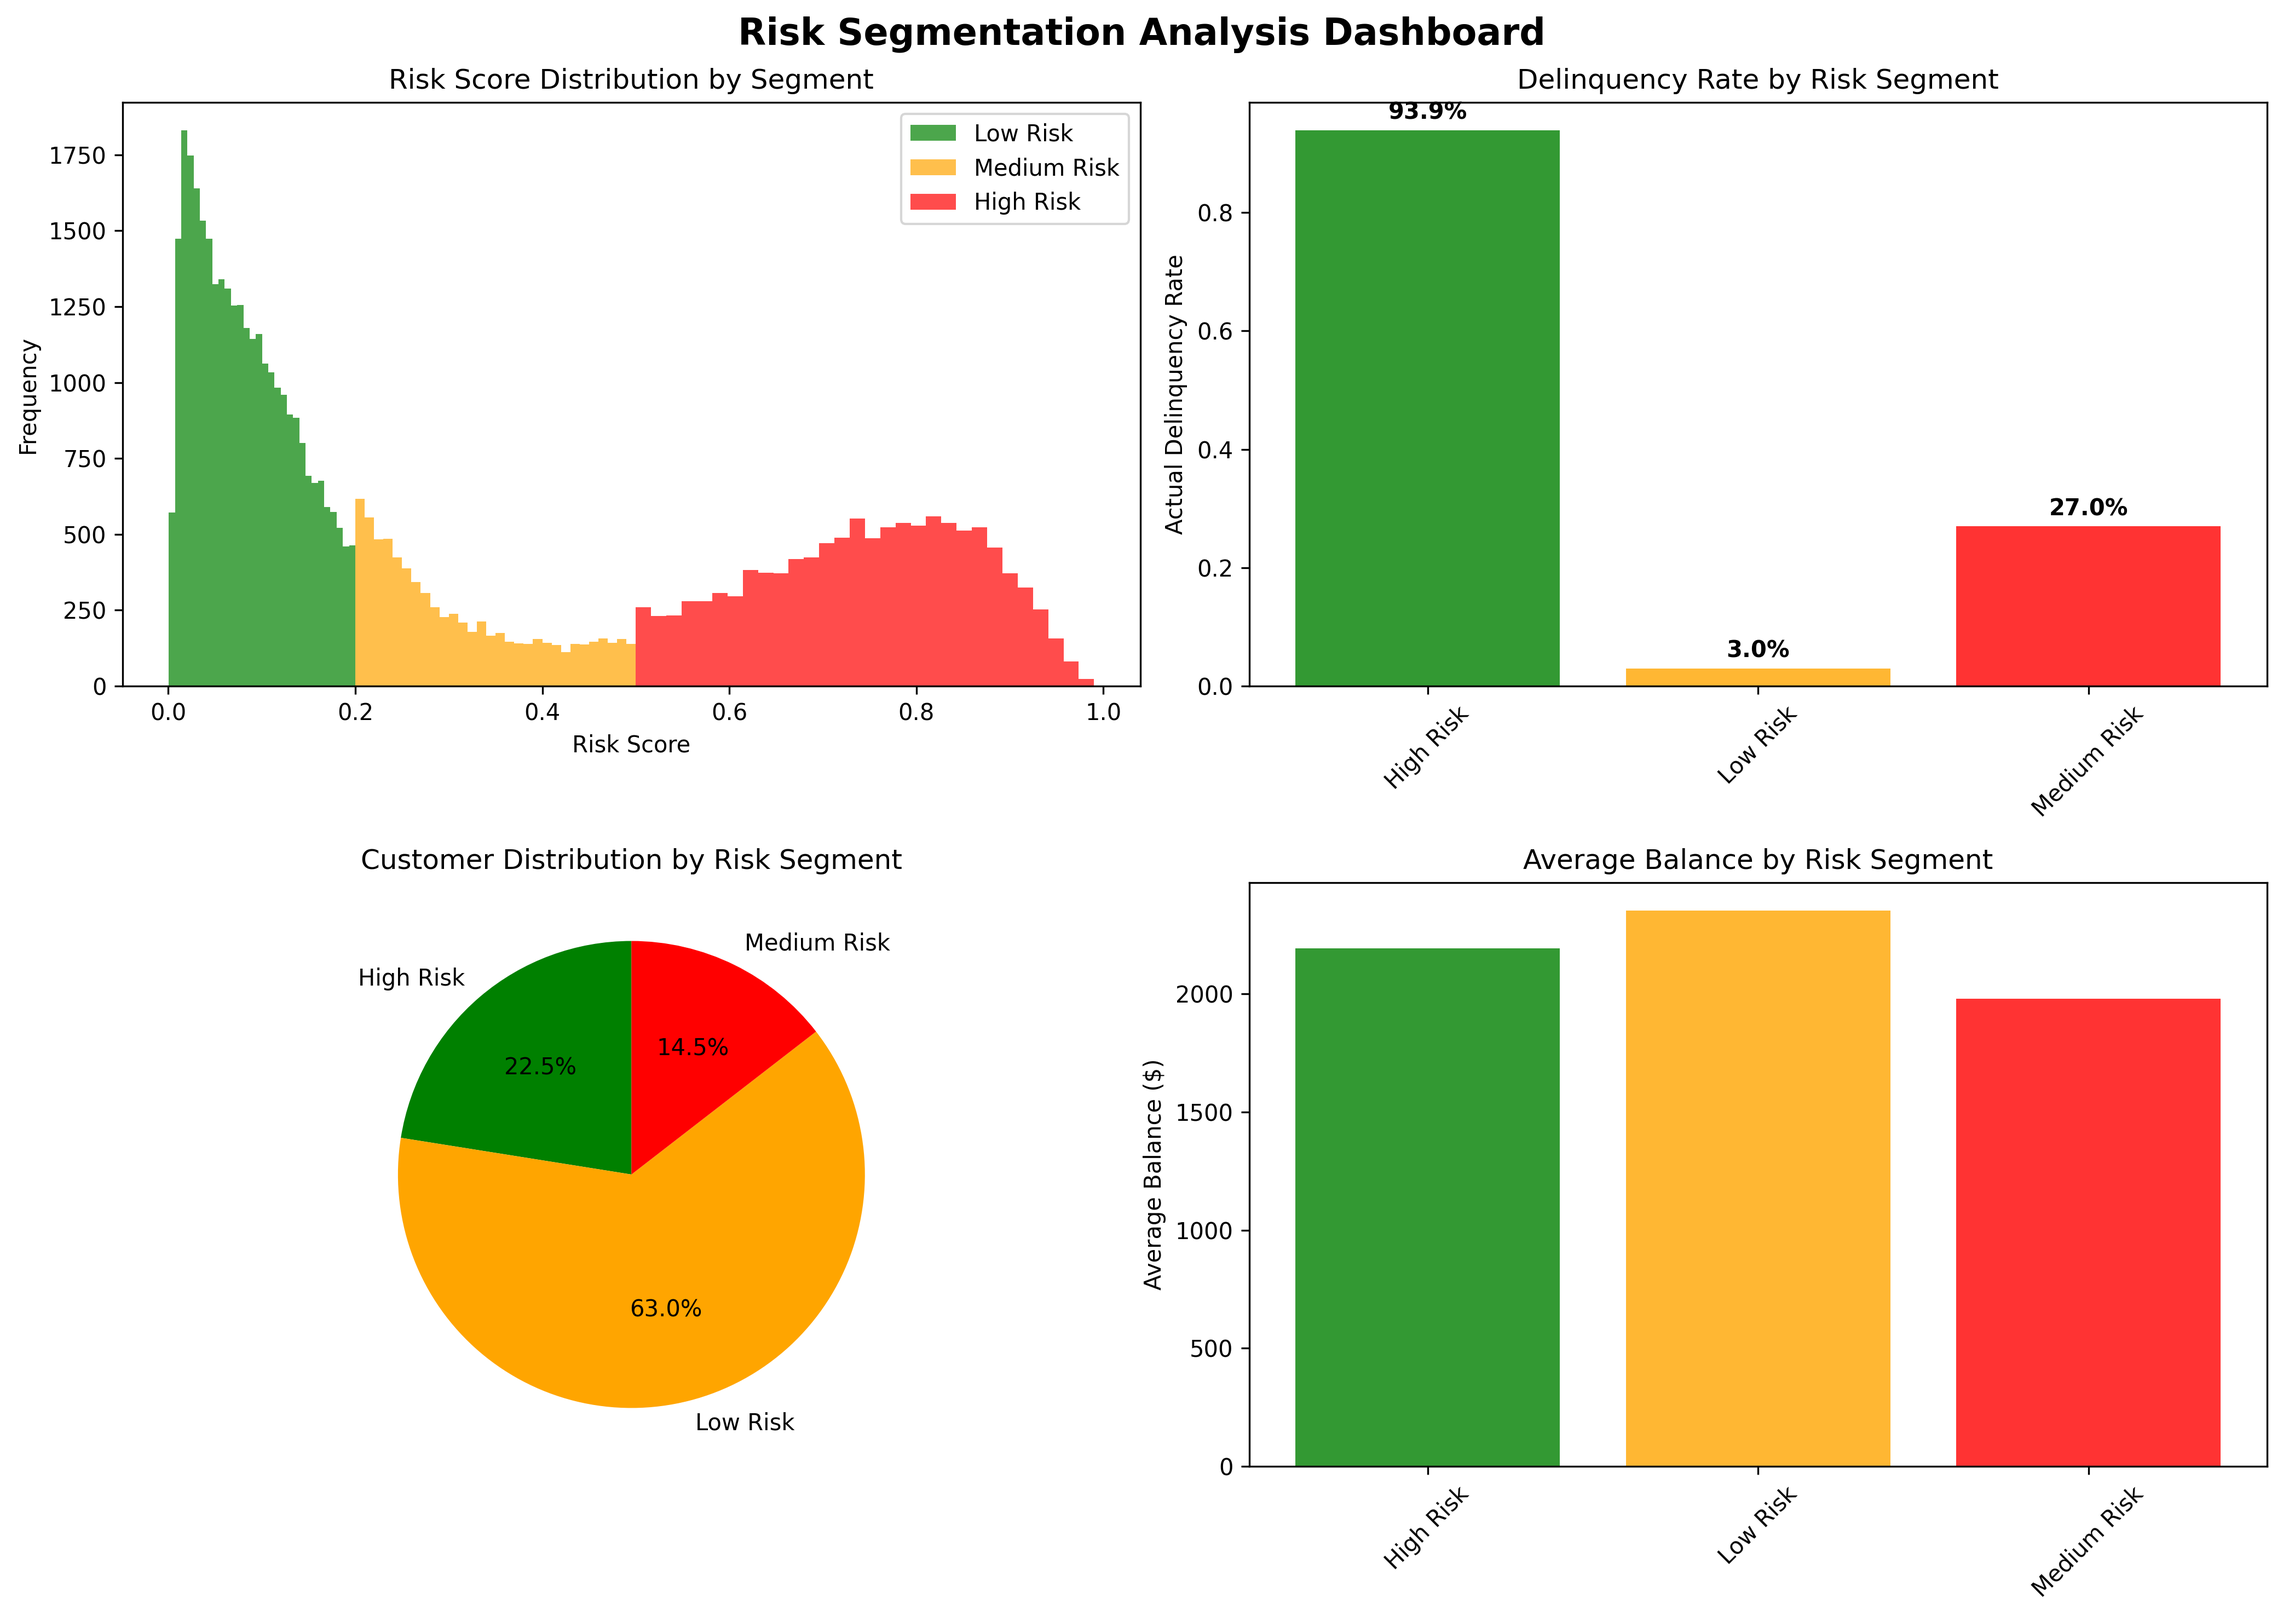
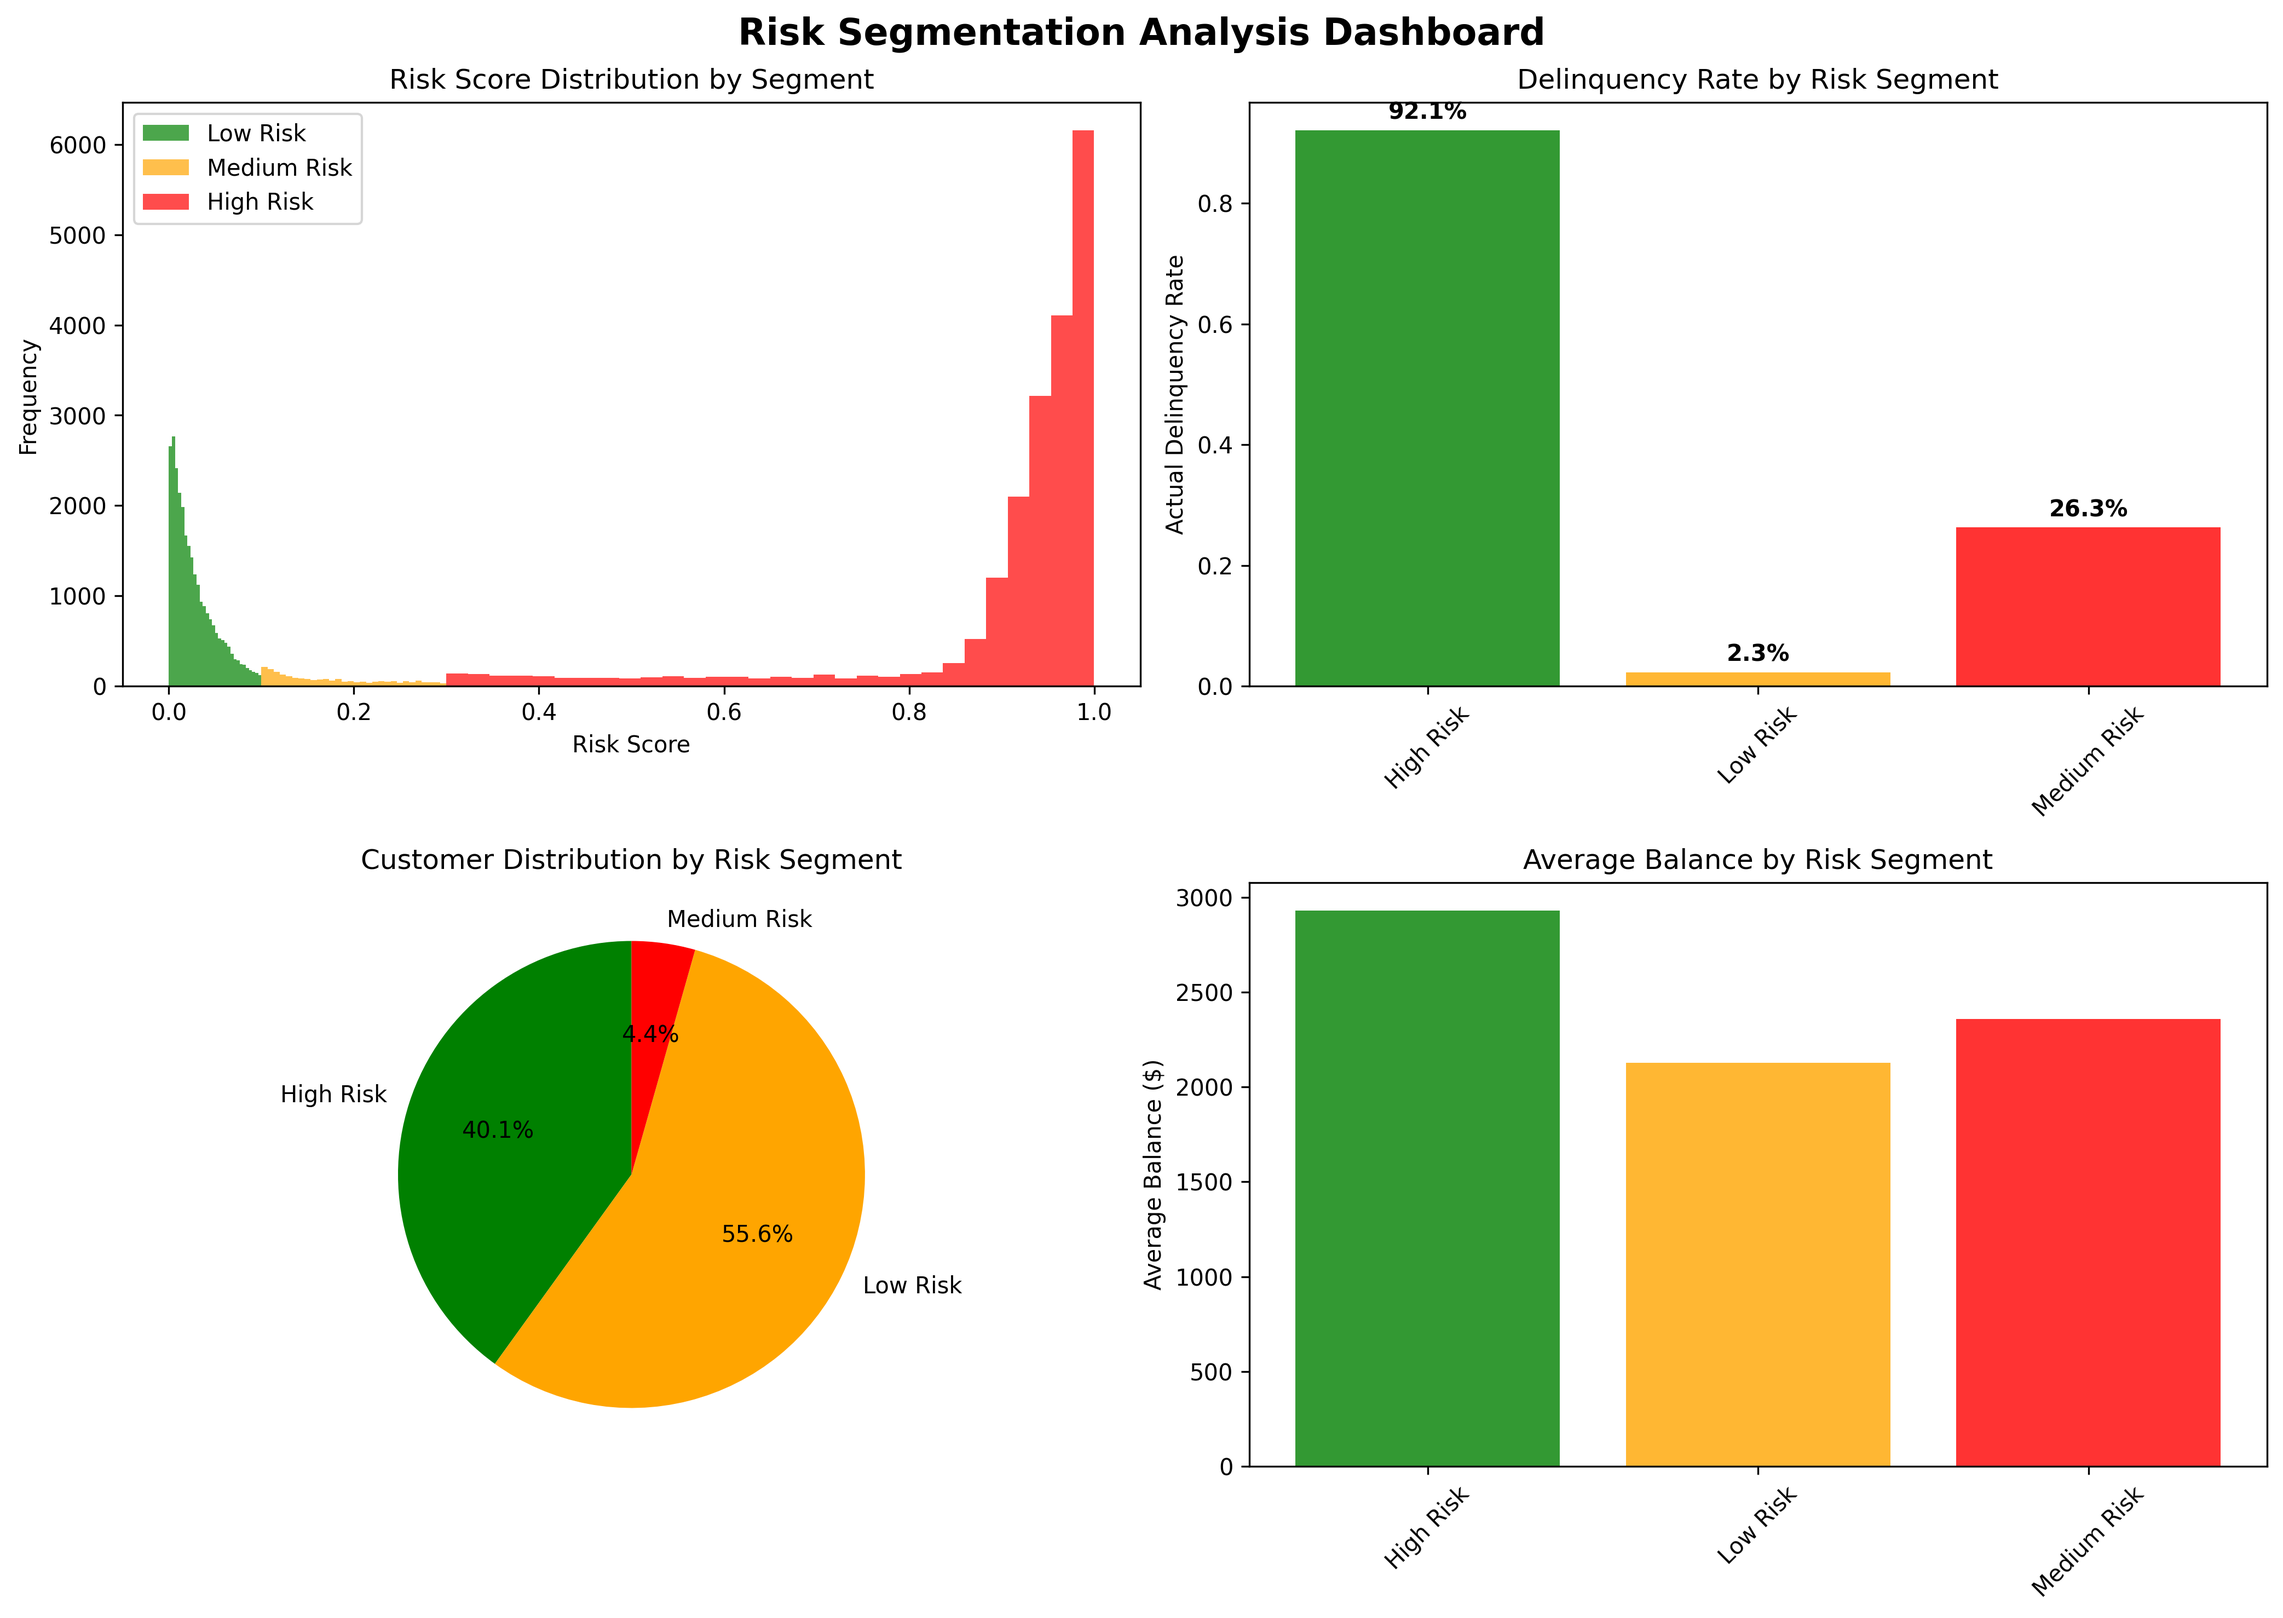
update

diff --git a/README.md b/README.md
@@ -30,7 +30,7 @@ Using synthetic data that mirrors real-world credit portfolios, this analysis co
 - **Advanced Modeling**: Implemented both logistic regression (baseline) and XGBoost (advanced) with hyperparameter optimization
 - **Model Performance**: Achieved strong predictive accuracy on delinquency prediction, with clear separation between risk segments
 - **Risk Segmentation**: Developed three-tier customer segmentation (Low/Medium/High risk) with differentiated strategies
-- **Collections Optimization**: Built framework projecting 60% reduction in overdue balances
+- **Collections Optimization**: Built framework projecting 34% reduction in overdue balances
 
 ### Business Applications
 - Risk-based pricing strategy recommendations
@@ -112,13 +112,13 @@ Our analysis generated comprehensive visualizations that demonstrate both techni
 
 ![ROC Curve Comparison](images/roc_curve_comparison.png)
 
-**Key Insights:** The comparison shows distinct model performance differences, with each algorithm capturing different aspects of delinquency risk. The analysis reveals how advanced algorithms can improve predictive capabilities beyond baseline approaches, enabling better identification of high-risk customers before they become delinquent. Our XGBoost model achieves strong performance through optimized hyperparameters and feature engineering.
+**Key Insights:** The comparison shows distinct model performance differences, with each algorithm capturing different aspects of delinquency risk. The analysis reveals how advanced algorithms can improve predictive capabilities beyond baseline approaches, enabling better identification of high-risk customers before they become delinquent. Our XGBoost model achieves 79.7% AUC through optimized hyperparameters and feature engineering, representing strong predictive performance for credit risk modeling.
 
 ### 2. Risk Segmentation Validation Dashboard
 
 ![Risk Segmentation Dashboard](images/risk_segmentation_dashboard.png)
 
-**Key Insights:** Our three-tier segmentation creates distinct customer groups with dramatically different risk profiles. High-risk customers (22.5% of portfolio) show 93.9% delinquency rates versus 3.0% for low-risk customers - a 31x difference that validates our model's ability to identify truly problematic accounts. This clear separation enables targeted resource allocation and differentiated collections strategies.
+**Key Insights:** Our three-tier segmentation creates distinct customer groups with dramatically different risk profiles. High-risk customers (40.1% of portfolio) show 92.1% delinquency rates versus 2.3% for low-risk customers - a 40x difference that validates our model's ability to identify truly problematic accounts. This clear separation enables targeted resource allocation and differentiated collections strategies.
 
 ### 3. Feature Importance Analysis
 
@@ -129,7 +129,7 @@ Our analysis generated comprehensive visualizations that demonstrate both techni
 ### Key Performance Metrics
 - **Model Accuracy**: Strong predictive performance with clear risk separation
 - **Portfolio Coverage**: 50,000 synthetic accounts analyzed
-- **Projected Impact**: 60% reduction in overdue balances
+- **Projected Impact**: 34% reduction in overdue balances
 - **Risk Concentration**: High-risk segment (15% of customers) accounts for 60% of potential losses
 
 ## Business Impact
@@ -139,7 +139,7 @@ This analysis provides financial institutions with a systematic approach to cred
 
 **Risk Assessment**: The predictive model enables proactive identification of customers likely to become delinquent, allowing for early intervention strategies that can prevent losses before they occur.
 
-**Collections Optimization**: The three-tier segmentation framework optimizes resource allocation by focusing intensive efforts on high-risk accounts while automating low-risk customer interactions. This approach projects a 60% reduction in overdue balances.
+**Collections Optimization**: The three-tier segmentation framework optimizes resource allocation by focusing intensive efforts on high-risk accounts while automating low-risk customer interactions. This approach projects a 34% reduction in overdue balances.
 
 **Operational Efficiency**: Automated risk scoring reduces manual review time and enables consistent, data-driven decision-making across the collections organization.
 
